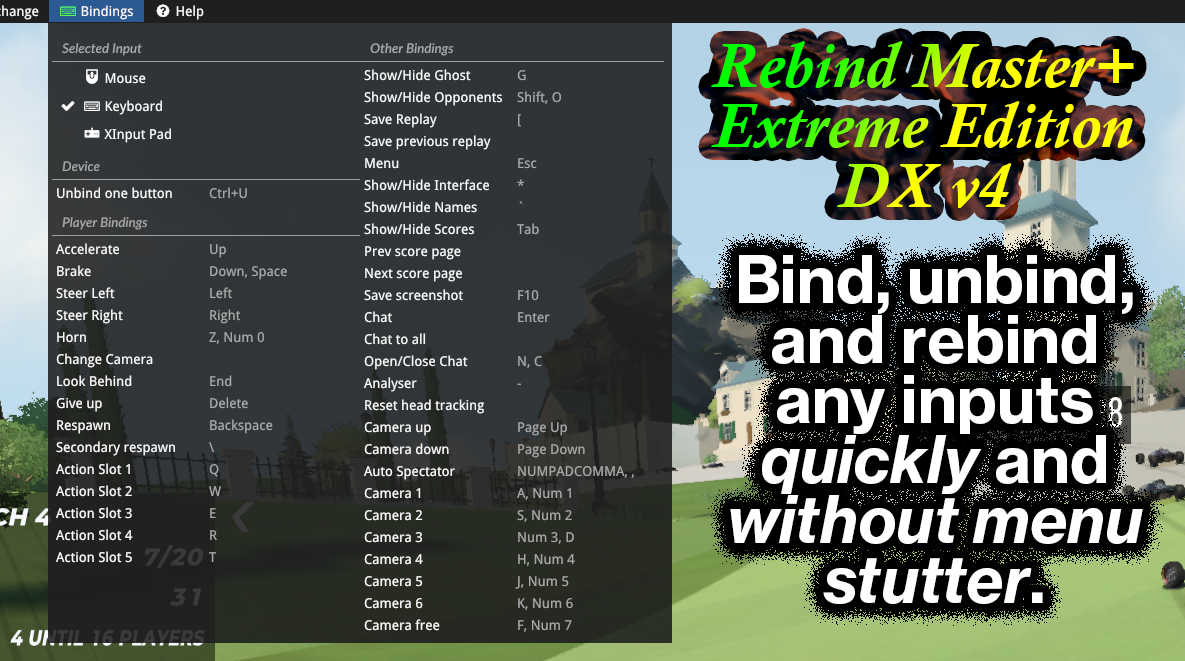
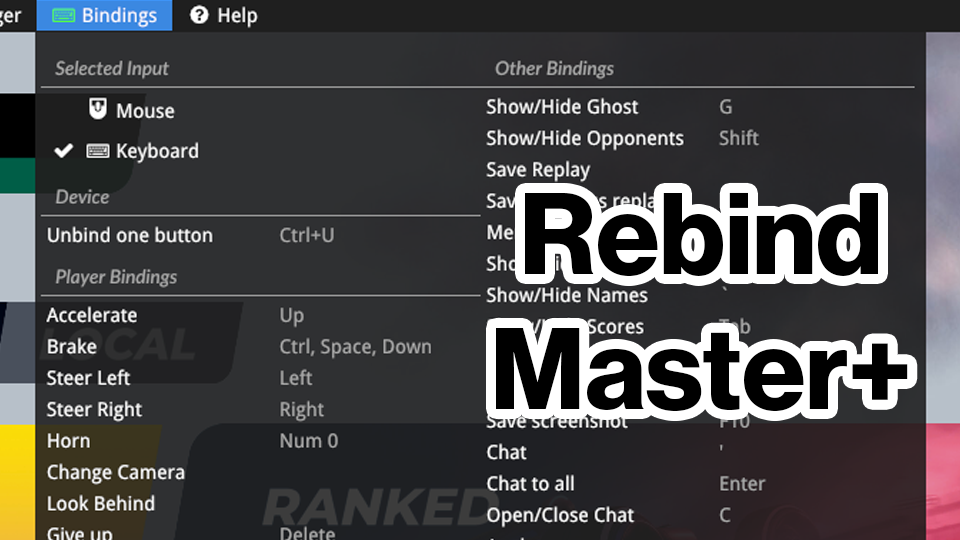
rebrand without the extreme dx etc

diff --git a/README.md b/README.md
@@ -1,10 +1,10 @@
-# Rebind Master+ Extreme Edition DX v4
+# Rebind Master+
 
 ### FEATURES
 
-With your purchase of the *FREE* **Rebind Master+ Extreme Edition DX v4** you can rest safe knowing that these industry guarantees safeguard your invenstment in your new **Rebind Master+ Extreme Edition DX v4**, a plugin that will surely service your every binding, unbinding, and rebinding need, regardless of when, where, or why you have that particular need.
+With your purchase of the *FREE* **Rebind Master+** you can rest safe knowing that these industry guarantees safeguard your invenstment in your new **Rebind Master+**, a plugin that will surely service your every binding, unbinding, and rebinding need, regardless of when, where, or why you have that particular need.
 
-| | Rebind Master+ Extreme Edition DX v4 | Nadeo |
+| | Rebind Master+ | Nadeo |
 | --- | --- | --- |
 | Ctrl+U unbind shortcut | ✅ | ❌ |
 | Smooth and non-stuttery | ✅ | ❌ |
@@ -24,7 +24,7 @@ Note: the menu is disabled when it's unsafe to rebind. If you can click it, it's
 
 Ofc, no guarantees.
 If you've got an important match, it's better to like plan and stuff. You know, have a checklist or something. (IDK i'm from bonk div.)
-But the Rebind Master+ Extreme Edition DX v4 is here if you need it.
+But the Rebind Master+ is here if you need it.
 
 ### Feedback options
 
